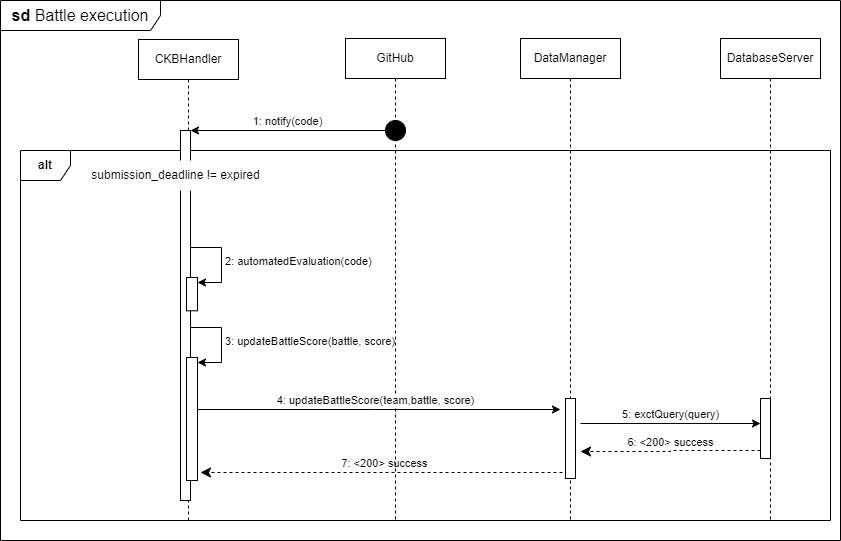
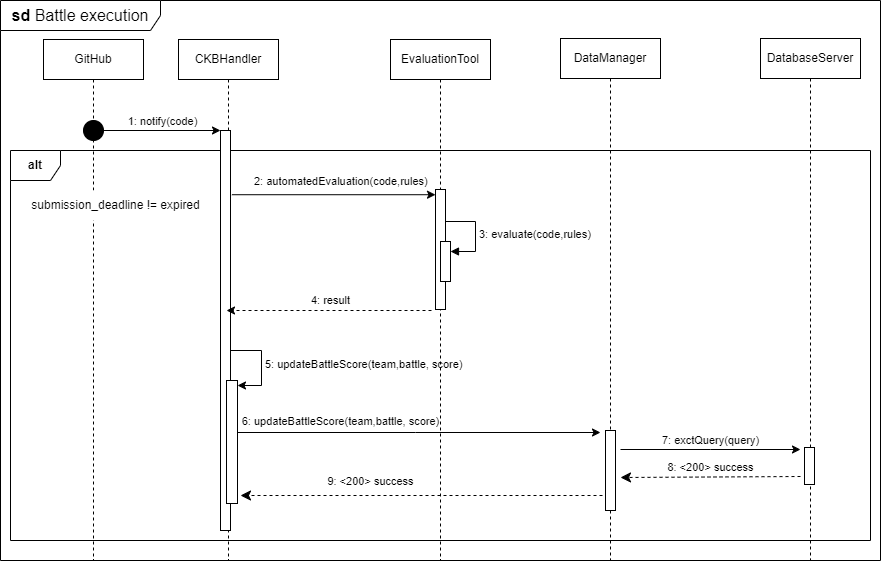
removed evaluation use case and put it into the battle execution/conclusion ones

diff --git a/RASD/chapters/03_specific_requirements.tex b/RASD/chapters/03_specific_requirements.tex
@@ -379,9 +379,10 @@ In case of exception the system will notify user with a human-readable message.
         \item The student forks the code kata repository.
         \item The student sets up the automated workflow on GitHub Actions.
         \item The student pushes his code to the repository.
+        \item The system performs the automated evaluated.
     \end{enumerate}
 }
-{The system performs the automated evaluation and updates the battle score.}
+{The system updates the battle score.}
 {
     The battle submission deadline has expired.
 }
@@ -391,46 +392,21 @@ In case of exception the system will notify user with a human-readable message.
 
 \usecase
 {9}
-{Evaluation} % name
-{Student, Educator, GitHub Service} % actor
-{The student has committed the code.} % entry condition
-{ % event flow
-    \begin{enumerate}
-        \item The student pushes the code to GitHub.
-        \item The GitHub service notify the system about the new push.
-        \item The system pulls the code from GitHub service.
-        \item The GitHub service provides the requested code to the system.
-        \item The system makes the automatic evaluation.
-        \item The system sets the calculated score to the code.
-    \end{enumerate}
-    If the battle has finished: 
-    \begin{enumerate} [resume]
-        \item The educator can get the code from the system.
-        \item The system provides the code to the educator.
-        \item The educator can manually evaluate the code at the end of the battle and set a score.
-    \end{enumerate}
-    Finally: 
-    \begin{enumerate} [resume]
-        \item The system updates the score.
-    \end{enumerate}
-}
-{The system sends an email to the students.} % exit condition
-{ % exceptions
- None. 
-}
-{ % notes
-}
-\clearpage
-
-\usecase
-{10}
 {Conclusion of a battle}
 {Student, Email Service}
 {The submission deadline (and, if required, the manual evaluation stage) has expired.}
 {
+    If the manual evaluation is required:
+    \begin{enumerate}
+        \item The educator requests the code from the system.
+        \item The system provides the code to the educator.
+        \item The educator manually evaluates the code at the end of the battle and sets a score.
+        \item The system updates the battle score.
+    \end{enumerate}
+    Finally:
     \begin{enumerate}
         \item The system updates the tournament score and rank.
-        \item The system sends an email to the students.
+        \item The system sends an email to the students subscribed to the battle.
     \end{enumerate}
 }
 {The battle is closed.}
@@ -441,7 +417,7 @@ In case of exception the system will notify user with a human-readable message.
 
 
 \usecase
-{11}
+{10}
 {Conclusion of a tournament}
 {Educator, Student, Email Service}
 {The authorized educator is in the tournament page.}
@@ -461,7 +437,7 @@ In case of exception the system will notify user with a human-readable message.
 \clearpage
 
 \usecase
-{12}
+{11}
 {Profile visualization} % name
 {Student, Educator} % actor
 {The actor is logged in the system.} % entry condition
@@ -546,28 +522,21 @@ In case of exception the system will notify user with a human-readable message.
 \begin{figure}[H]
     \centering
     \includegraphics[width=0.95\textwidth]{images/seq_diagrams/battle_execution.png}
-    \caption{Joining a battle by joining a group sequence diagram}
-\end{figure}
-\clearpage
-
-\begin{figure}[H]
-    \centering
-    \includegraphics[width=0.95\textwidth]{images/seq_diagrams/Evaluation.png}
-    \caption{Evaluation sequence diagram}
+    \caption{Execution of a battle sequence diagram}
 \end{figure}
 \clearpage
 
 \begin{figure}[H]
     \centering
     \includegraphics[width=0.95\textwidth]{images/seq_diagrams/battle_conclusion.png}
-    \caption{Joining a battle by joining a group sequence diagram}
+    \caption{Conclusion of a battle sequence diagram}
 \end{figure}
 \clearpage
 
 \begin{figure}[H]
     \centering
     \includegraphics[width=0.95\textwidth]{images/seq_diagrams/tournament_conclusion.png}
-    \caption{Joining a battle by joining a group sequence diagram}
+    \caption{Tournament conclusion sequence diagram}
 \end{figure}
 \clearpage
 
@@ -669,8 +638,7 @@ the student if the settings of the tournament allow it.
     R39 \label{R.39}& The system must allow users to visualize ongoing tournaments. \\ \hline
     R40 \label{R.40}& The system must allow users to visualize ongoing tournament ranks. \\ \hline
     R41 \label{R.41}& The system must allow users to visualize students' profiles. \\ \hline
-    R42 \label{R.42}& \begin{tabular}[c]{@{}l@{}} The system must notify via email students when their work has \\ been manually evaluated.\end{tabular} \\ \hline
-    R43 \label{R.43}& The system must notify via email students when they join a tournament. \\ \hline
+    R42 \label{R.42}& The system must notify via email students when they join a tournament. \\ \hline
 \end{longtable}
 
 \subsection{Mapping on requirements}
@@ -715,8 +683,7 @@ the student if the settings of the tournament allow it.
         \textbf{R39} The system must allow users to visualize ongoing tournaments.    \\
         \textbf{R40} The system must allow users to visualize ongoing tournament ranks.       \\
         \textbf{R41} The system must allow users to visualize students' profiles.     \\
-        \textbf{R42} The system must notify via email students when their work has been manually evaluated. \\
-        \textbf{R43} The system must notify via email students when they join a tournament. \\
+        \textbf{R42} The system must notify via email students when they join a tournament. \\
         \midrule
         \textbf{Domain Assumptions}                                                                                                  \\ \midrule
         \textbf{D1} Users provide correct information during the registration process. \\
@@ -782,7 +749,6 @@ the student if the settings of the tournament allow it.
         \textbf{R33} The system must run the students' projects.      \\
         \textbf{R34} The system must evaluate the students' projects.     \\ 
         \textbf{R38} The system must compute the tournament rank.                 \\ 
-        \textbf{R42} The system must notify via email students when their work has been manually evaluated. \\
         \midrule
         \textbf{Domain Assumptions}                                                                                                  \\ \midrule
         \textbf{D1} Users provide correct information during the registration process. \\           
@@ -830,13 +796,12 @@ the student if the settings of the tournament allow it.
         UC3 - Tournament creation             & R6 R7 R9 R10 R16 R23  \\
         UC4 - Battle creation                 & R17 R18 R19 R21 R25       \\
         UC5 - Tournament visualization        & R39 R40          \\
-        UC6 - Joining a tournament            & R24 R43        \\
+        UC6 - Joining a tournament            & R24 R42        \\
         UC7 - Joining a battle                & R26 R27 R28      \\
-        UC8 - Battle execution                & R22              \\
-        UC9 - Evaluation                      & R15 R20 R31 R32 R33 R34 R42     \\
-        UC10 - Conclusion of a battle         & R29 R35 R36 R37 R38         \\
-        UC11 - Conclusion of a tournament     & R8 R11 R12 R13 R14 R30              \\
-        UC12 - Profile visualization          & R41              \\
+        UC8 - Battle execution                & R22 R31 R32 R33 R34 R35           \\
+        UC9 - Conclusion of a battle          & R15 R20 R29 R31 R35 R36 R37 R38         \\
+        UC10 - Conclusion of a tournament     & R8 R11 R12 R13 R14 R30              \\
+        UC11 - Profile visualization          & R41              \\
         \bottomrule
     \end{tabularx}
 \end{table}

diff --git a/DD/chapters/04_requirements_traceability.tex b/DD/chapters/04_requirements_traceability.tex
@@ -1,5 +1,5 @@
 \chapter{Requirements Traceability}
-In this section, it is provided the mapping between the requirements defined in the RASD document and the components defined in the DD document.
+In this section, it is provided the mapping between the requirements defined in the RASD and the components defined in the DD.
 
 \begin{table}[H]
     \begin{tabularx}{\textwidth}{X}
@@ -335,15 +335,7 @@ In this section, it is provided the mapping between the requirements defined in 
 \begin{table}[H]
     \begin{tabularx}{\textwidth}{X}
         \toprule
-        \textbf{R42} The system must notify via email students when their work has been manually evaluated. \\ \midrule
-        \textbf{CKBHandler}, \textbf{MailManager}, \textbf{MailServer} \\    
-    \end{tabularx}
-\end{table}
-
-\begin{table}[H]
-    \begin{tabularx}{\textwidth}{X}
-        \toprule
-        \textbf{R43} The system must notify via email students when they join a tournament. \\  \midrule
+        \textbf{R42} The system must notify via email students when they join a tournament. \\  \midrule
         \textbf{CKBHandler}, \textbf{MailManager}, \textbf{MailServer} \\    
     \end{tabularx}
 \end{table}

diff --git a/DD/chapters/02_architectural_design.tex b/DD/chapters/02_architectural_design.tex
@@ -248,17 +248,6 @@ updates the battle score of the student.\\
 \end{figure}
 \clearpage
 
-\subsection{Evaluation}
-The figure below shows evaluation process of a students' solution: first, the CKBHandler asks the EvaluationTool to evaluate the 
-code according to the rules for automated evaluation, then, after the battle submission deadline expires and if required, the 
-educator can manually evaluate the code.\\
-\begin{figure}[H]
-    \centering
-    \includegraphics[width=1\textwidth]{images/seq_diagrams/evaluation_DD.png}
-    \caption{Evaluation}
-\end{figure}
-\clearpage
-
 \subsection{Conclusion of the battle}
 The figure below shows the sequence diagram of the conclusion of a battle. The system updates the tournament
 score of the students who participated in the battle and the tournament rank. The system sends an email to all the students subscribed
